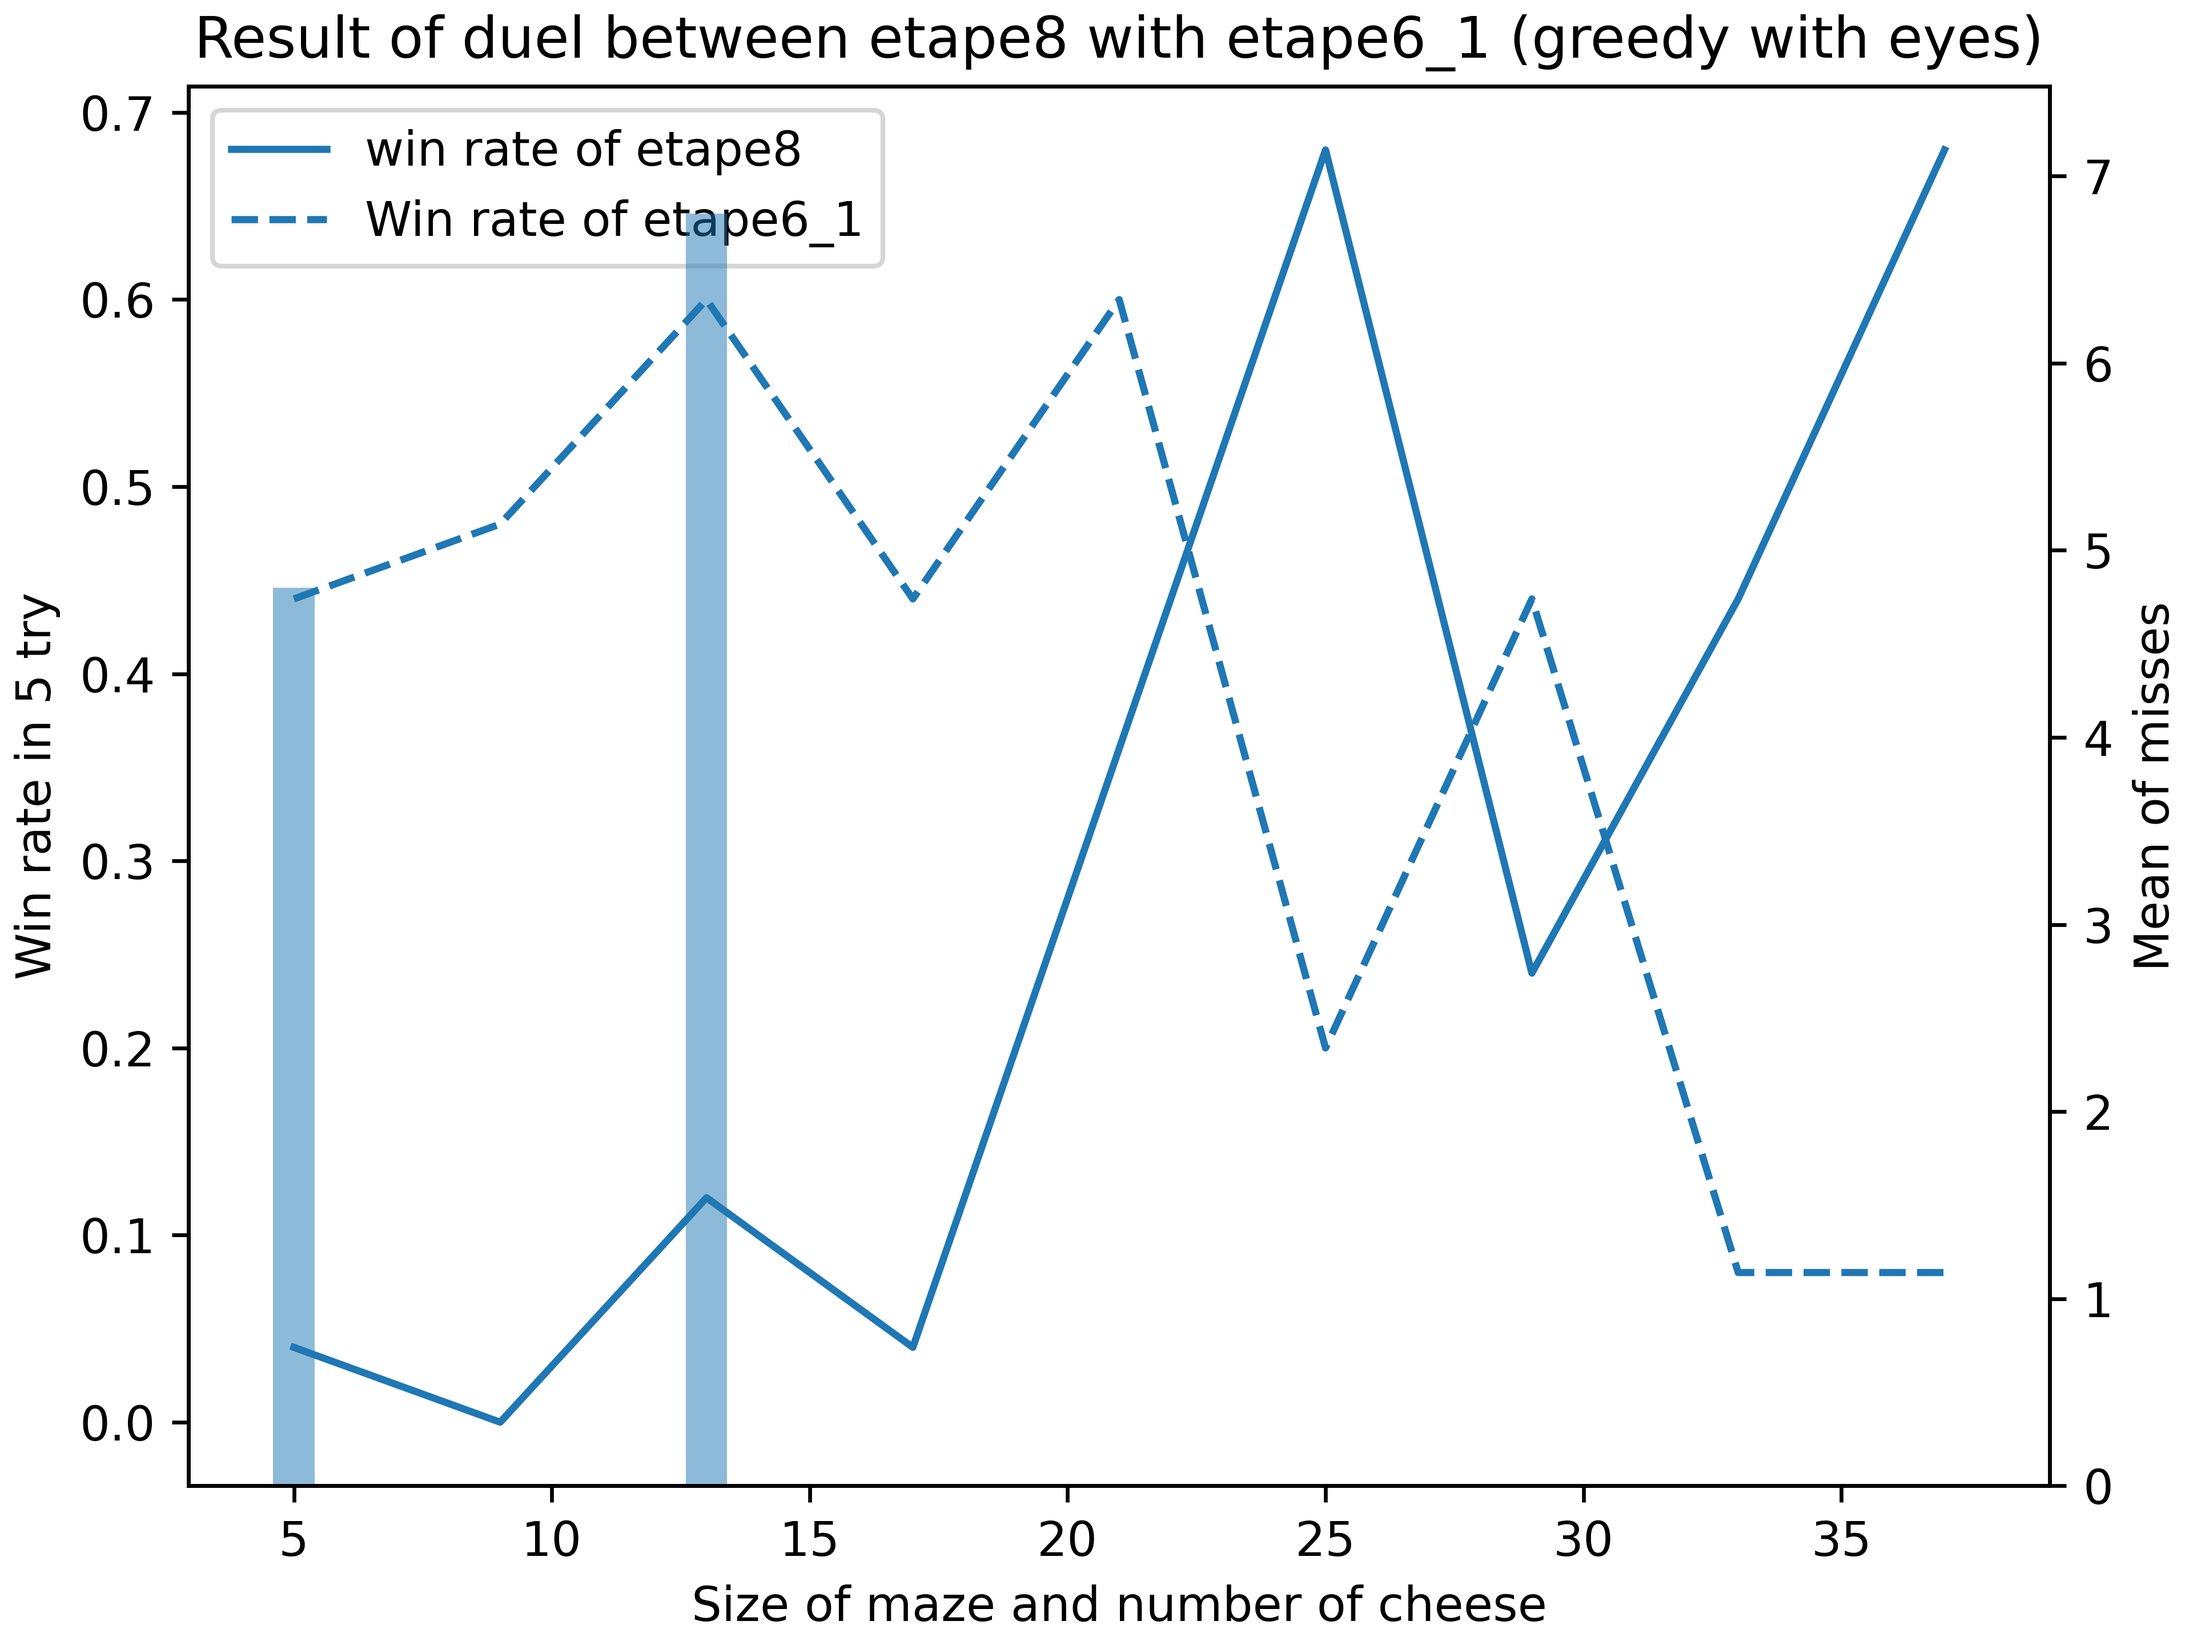
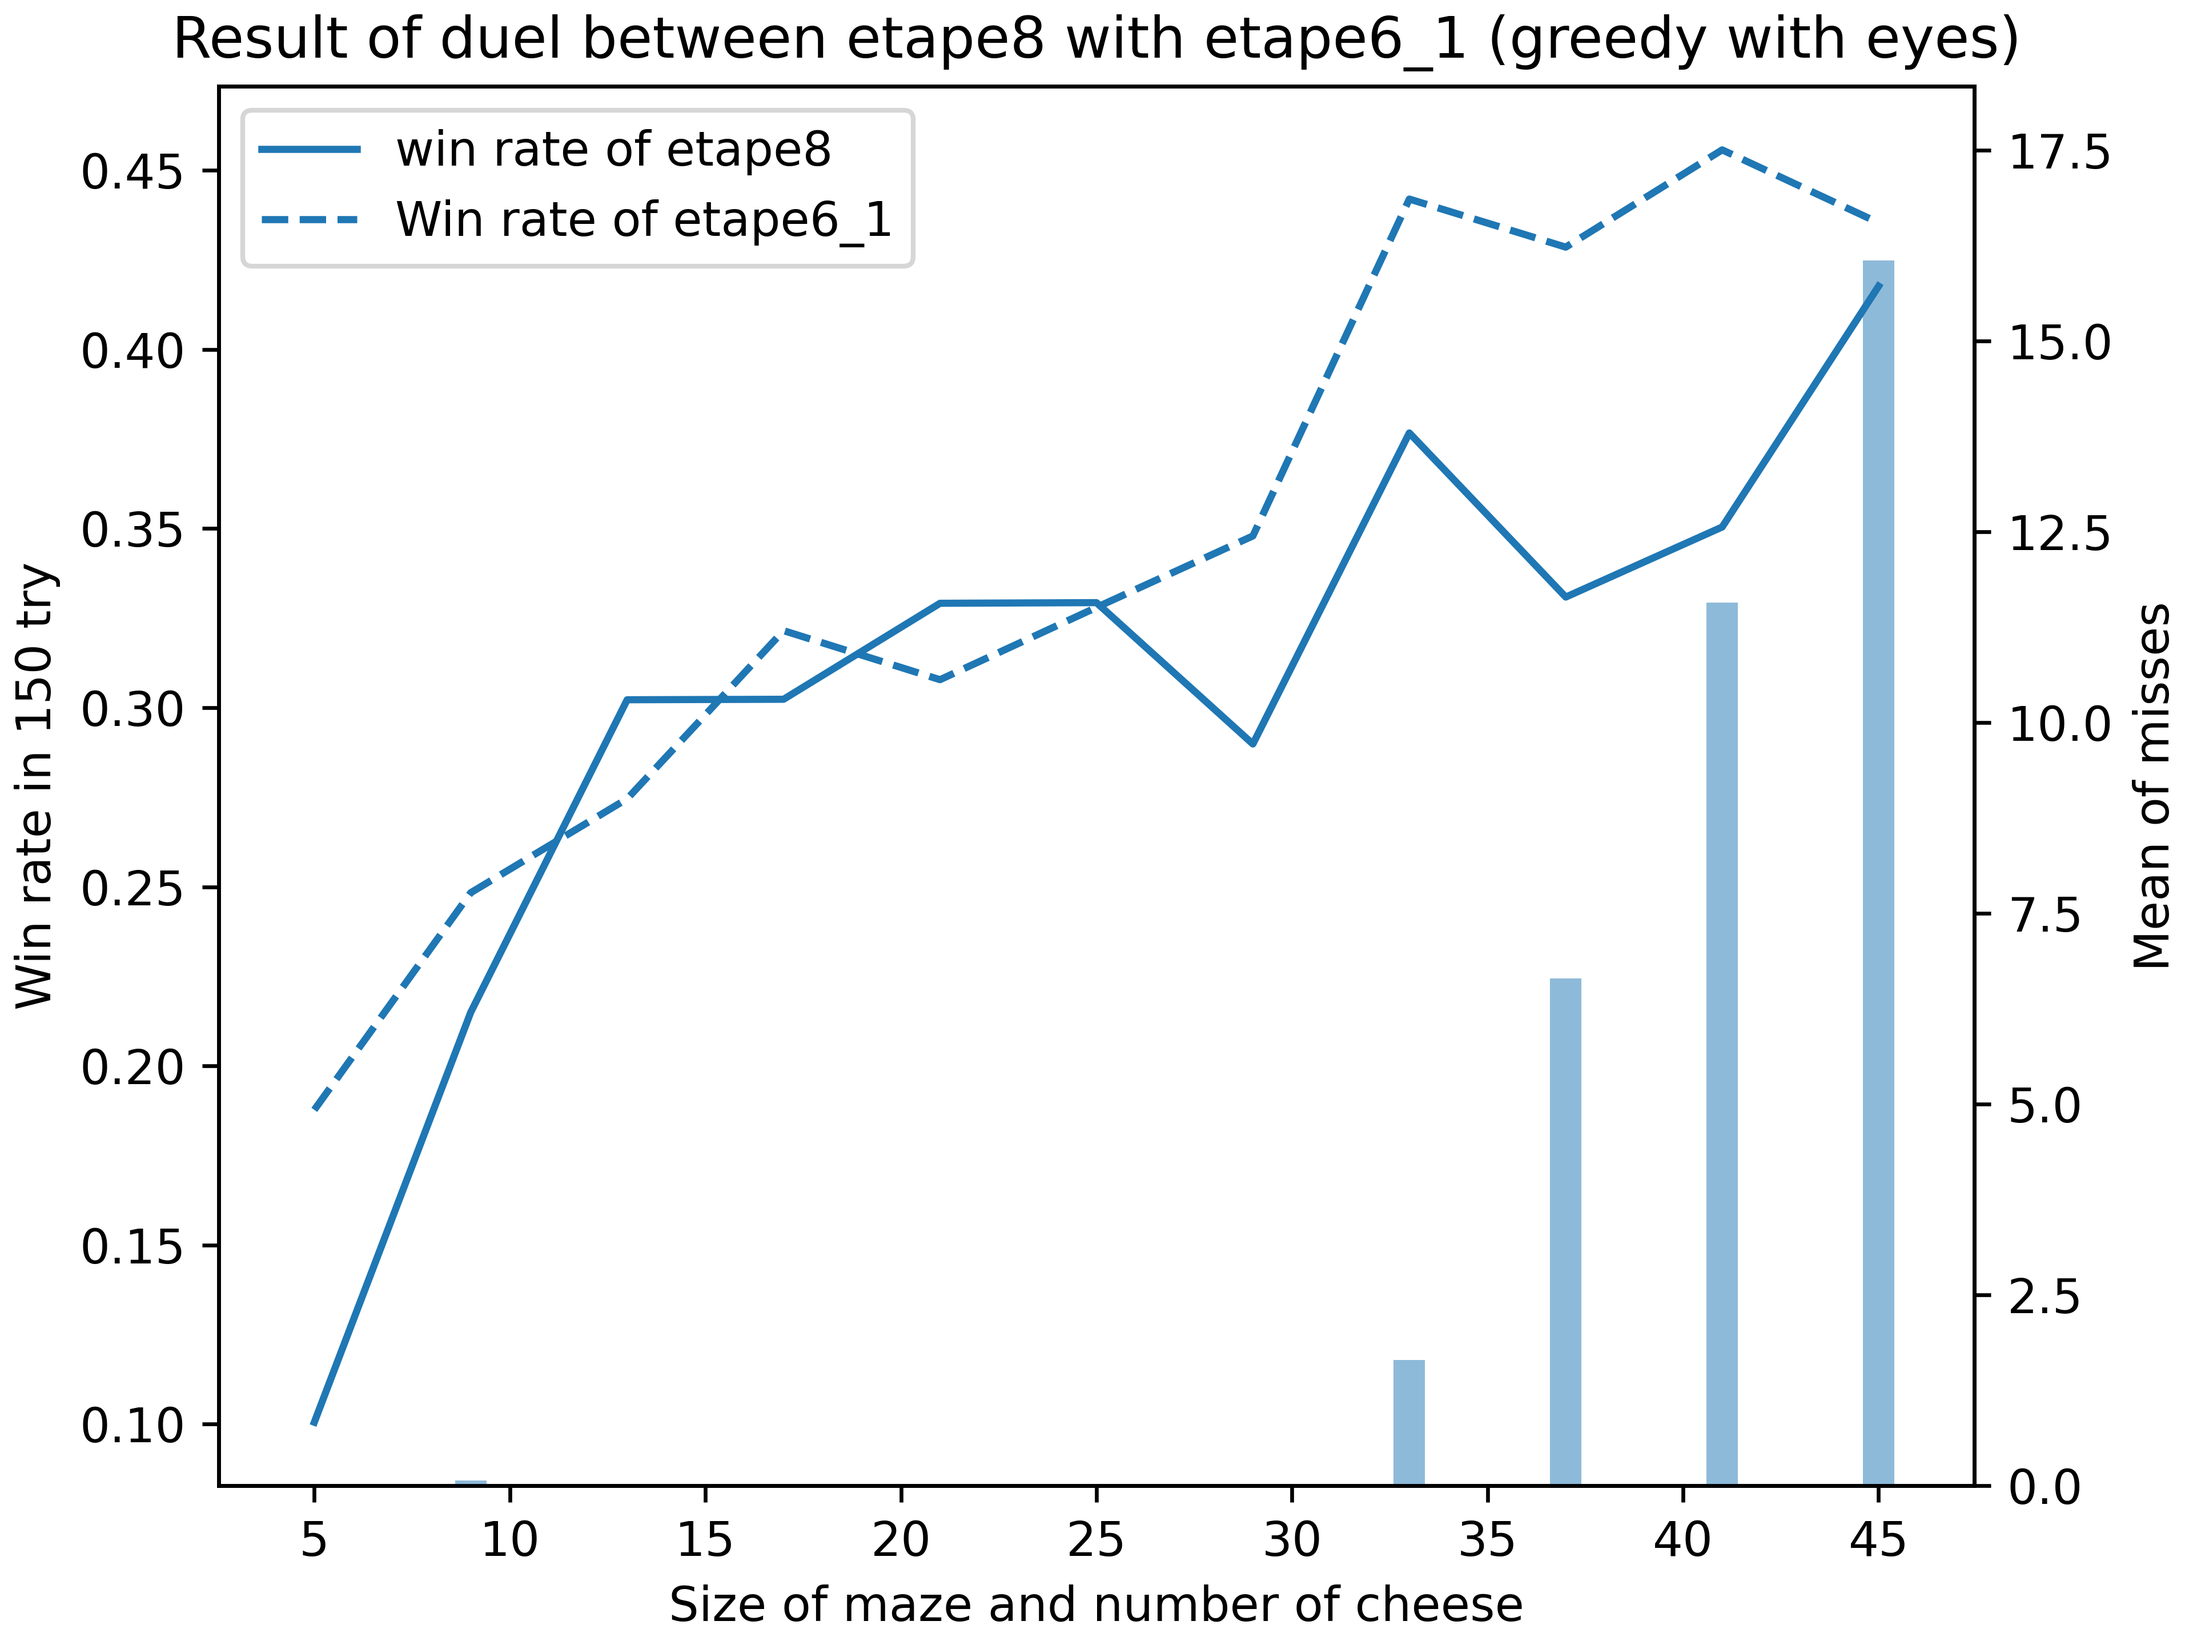
data collected

diff --git a/graph.py b/graph.py
@@ -6,7 +6,13 @@ import numpy as np
 import os
 
 
-ai_list = ["etape8_1", "etape8", "etape8_enemyScore_scraped", "etape8_2", "etape8_3"]
+ai_list = [
+    # "etape8_1",
+    # "etape8",
+    "etape8_enemyScore_scraped",
+    "etape8_2",
+    "etape8_3"
+]
 
 save_path = "PyRat-1-master/saves/"
 # rat_path = "PyRat-1-master/AIs/etape8_1.py"
@@ -15,7 +21,7 @@ python_path = "PyRat-1-master/AIs/etape6_1.py"
 n_test = 150
 n_min = 5
 n_max = 45
-n_step = 4 # must be odd
+n_step = 4  # must be odd
 x_list = [n for n in range(n_min, n_max + n_step, n_step)]
 rat_list = [0 for n in range(n_min, n_max + n_step, n_step)]
 python_list = [0 for n in range(n_min, n_max + n_step, n_step)]
@@ -34,7 +40,7 @@ def test(rat_path, python_path, n_test):
     global x_list
     for n in x_list:
         assert (n % 2 == 1)
-        system(f"python3 PyRat-1-master/pyrat.py --rat {rat_path} --python {python_path} --nodrawing --synchronous --test {n_test} -x {n} -y {n} -p {n} --save")
+        system(f"python3 PyRat-1-master/pyrat.py --rat {rat_path} --python {python_path} --nodrawing --test {n_test} -x {n} -y {n} -p {n} --save --synchronous")
 
 
 def create_datas():
@@ -94,9 +100,9 @@ def draw():
         ax2 = ax1.twinx()
         t, = ax1.plot(x_list, datas[i + 1], label=f"win rate of {datas[i]}")
         cl = t.get_color()
-        ax1.plot(x_list, datas[i + 2], color=cl, linestyle="--", label = "Win rate of etape6_1")
+        ax1.plot(x_list, datas[i + 2], color=cl, linestyle="--", label="Win rate of etape6_1")
         ax2.bar(x_list, datas[i + 3], color=cl, alpha=0.5)
-        ax2.set_ylim(0,max_miss*1.10)
+        ax2.set_ylim(0, max_miss * 1.10)
 
         ax1.set_xlabel("Size of maze and number of cheese")
         ax1.set_ylabel(f"Win rate in {n_test} try")
@@ -128,7 +134,7 @@ def main():
     draw()
 
 
-# read_datas()
-# draw()
-clear_saves()
-main()
+read_datas()
+draw()
+# clear_saves()
+# main()
